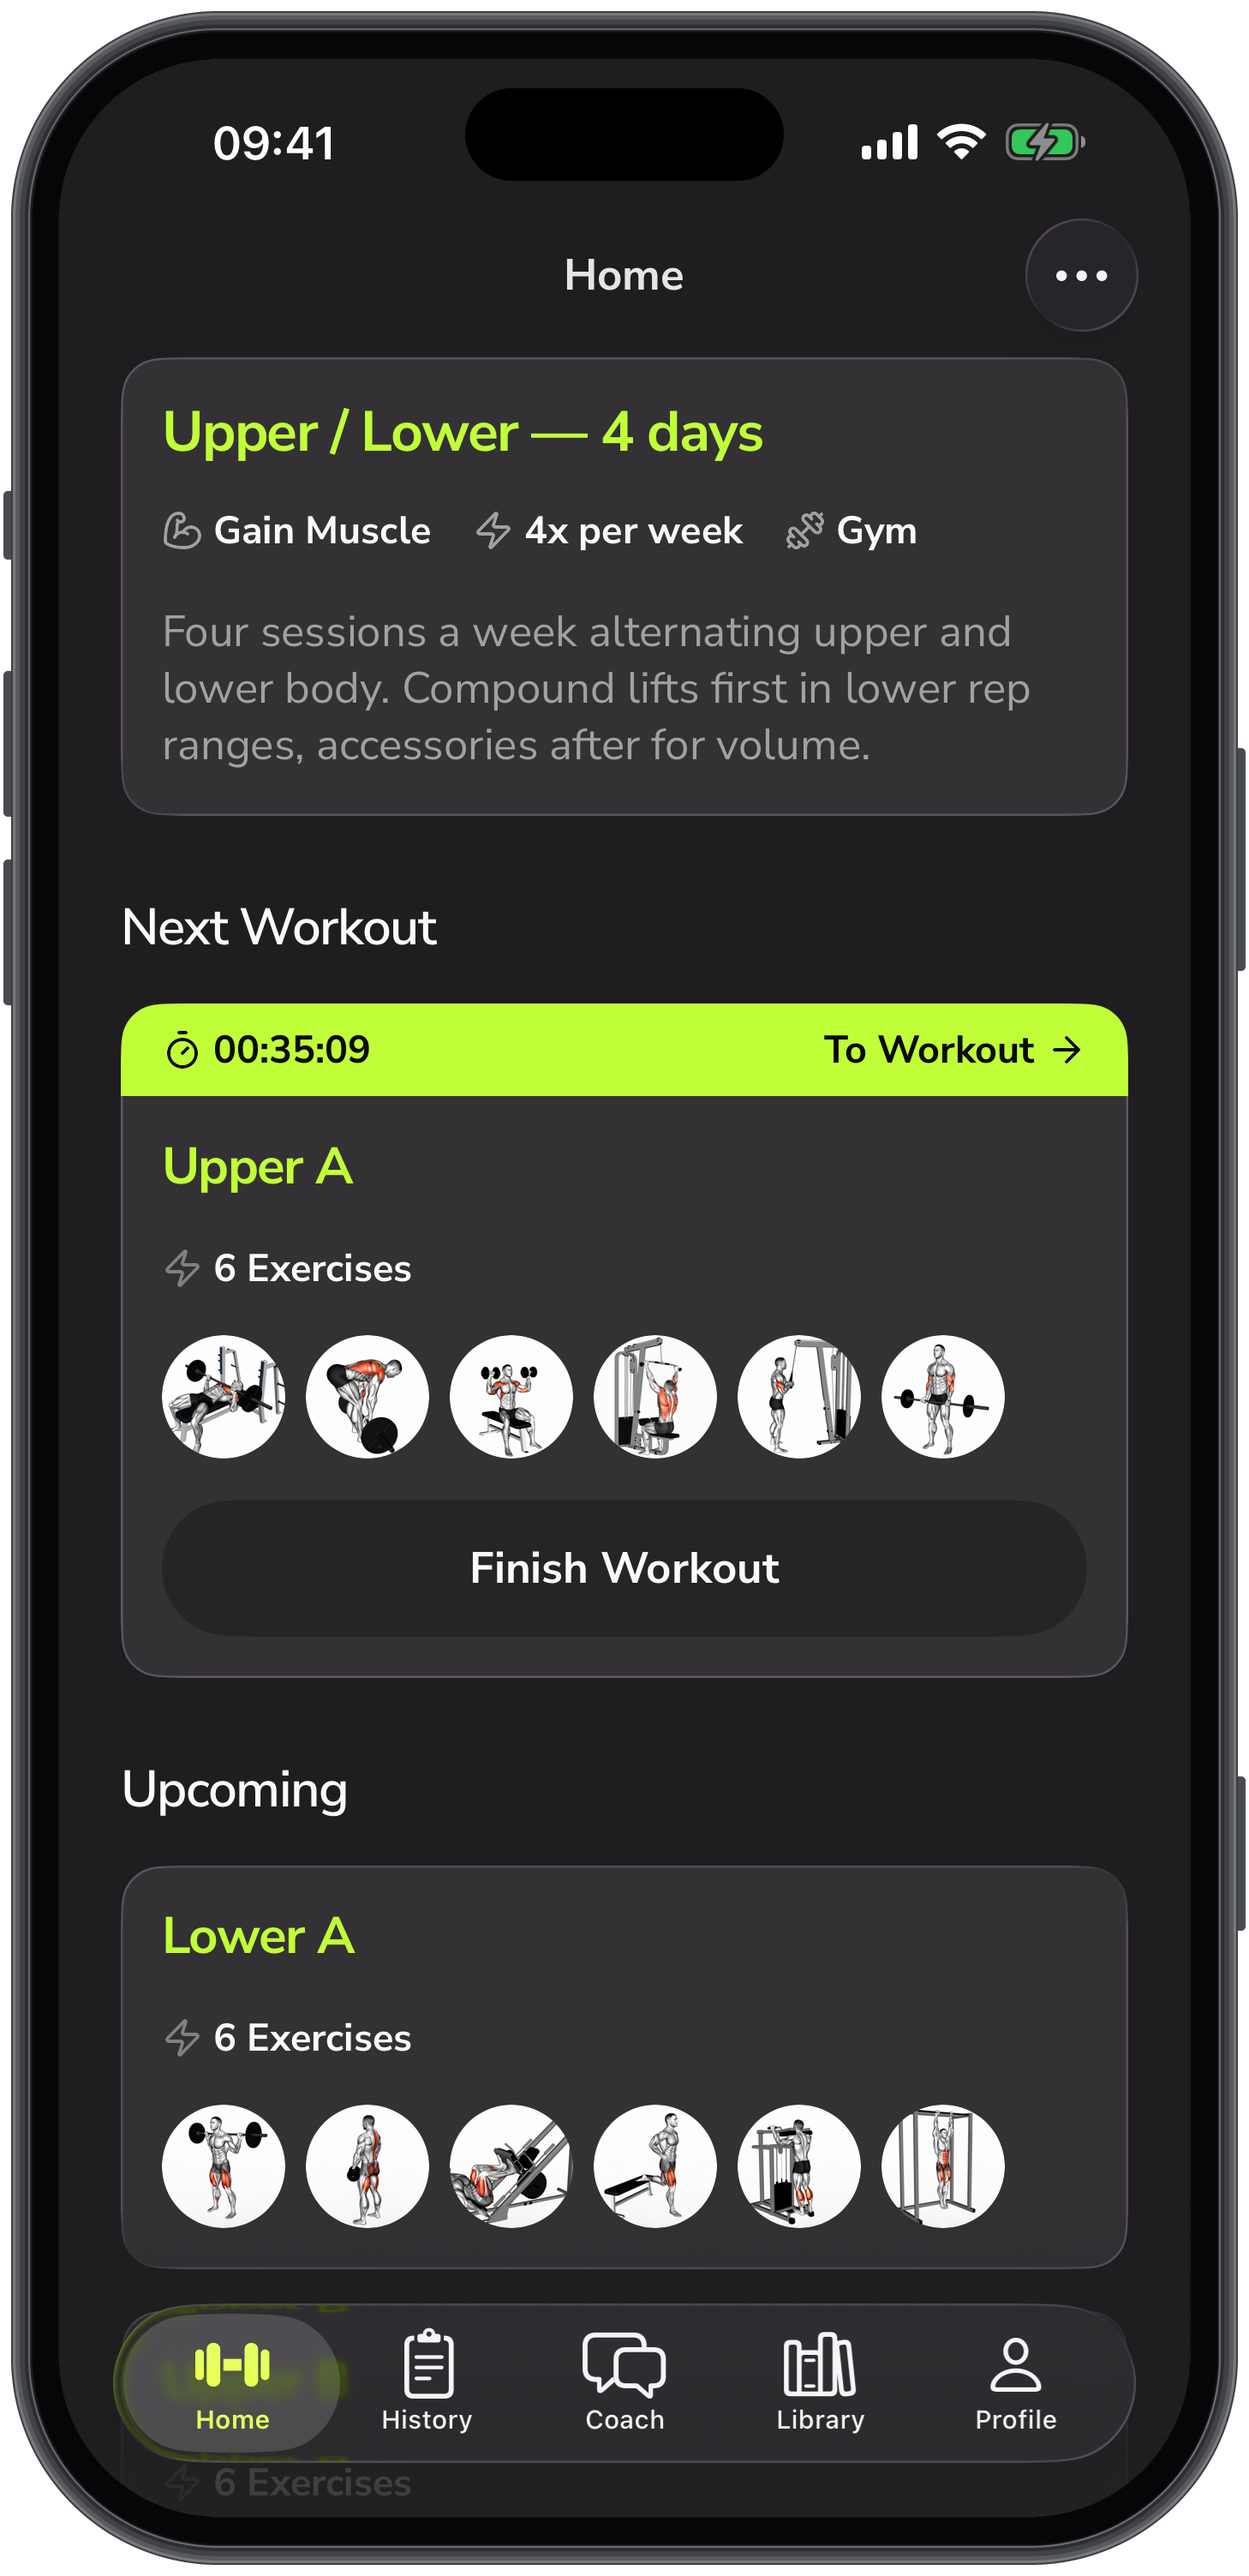
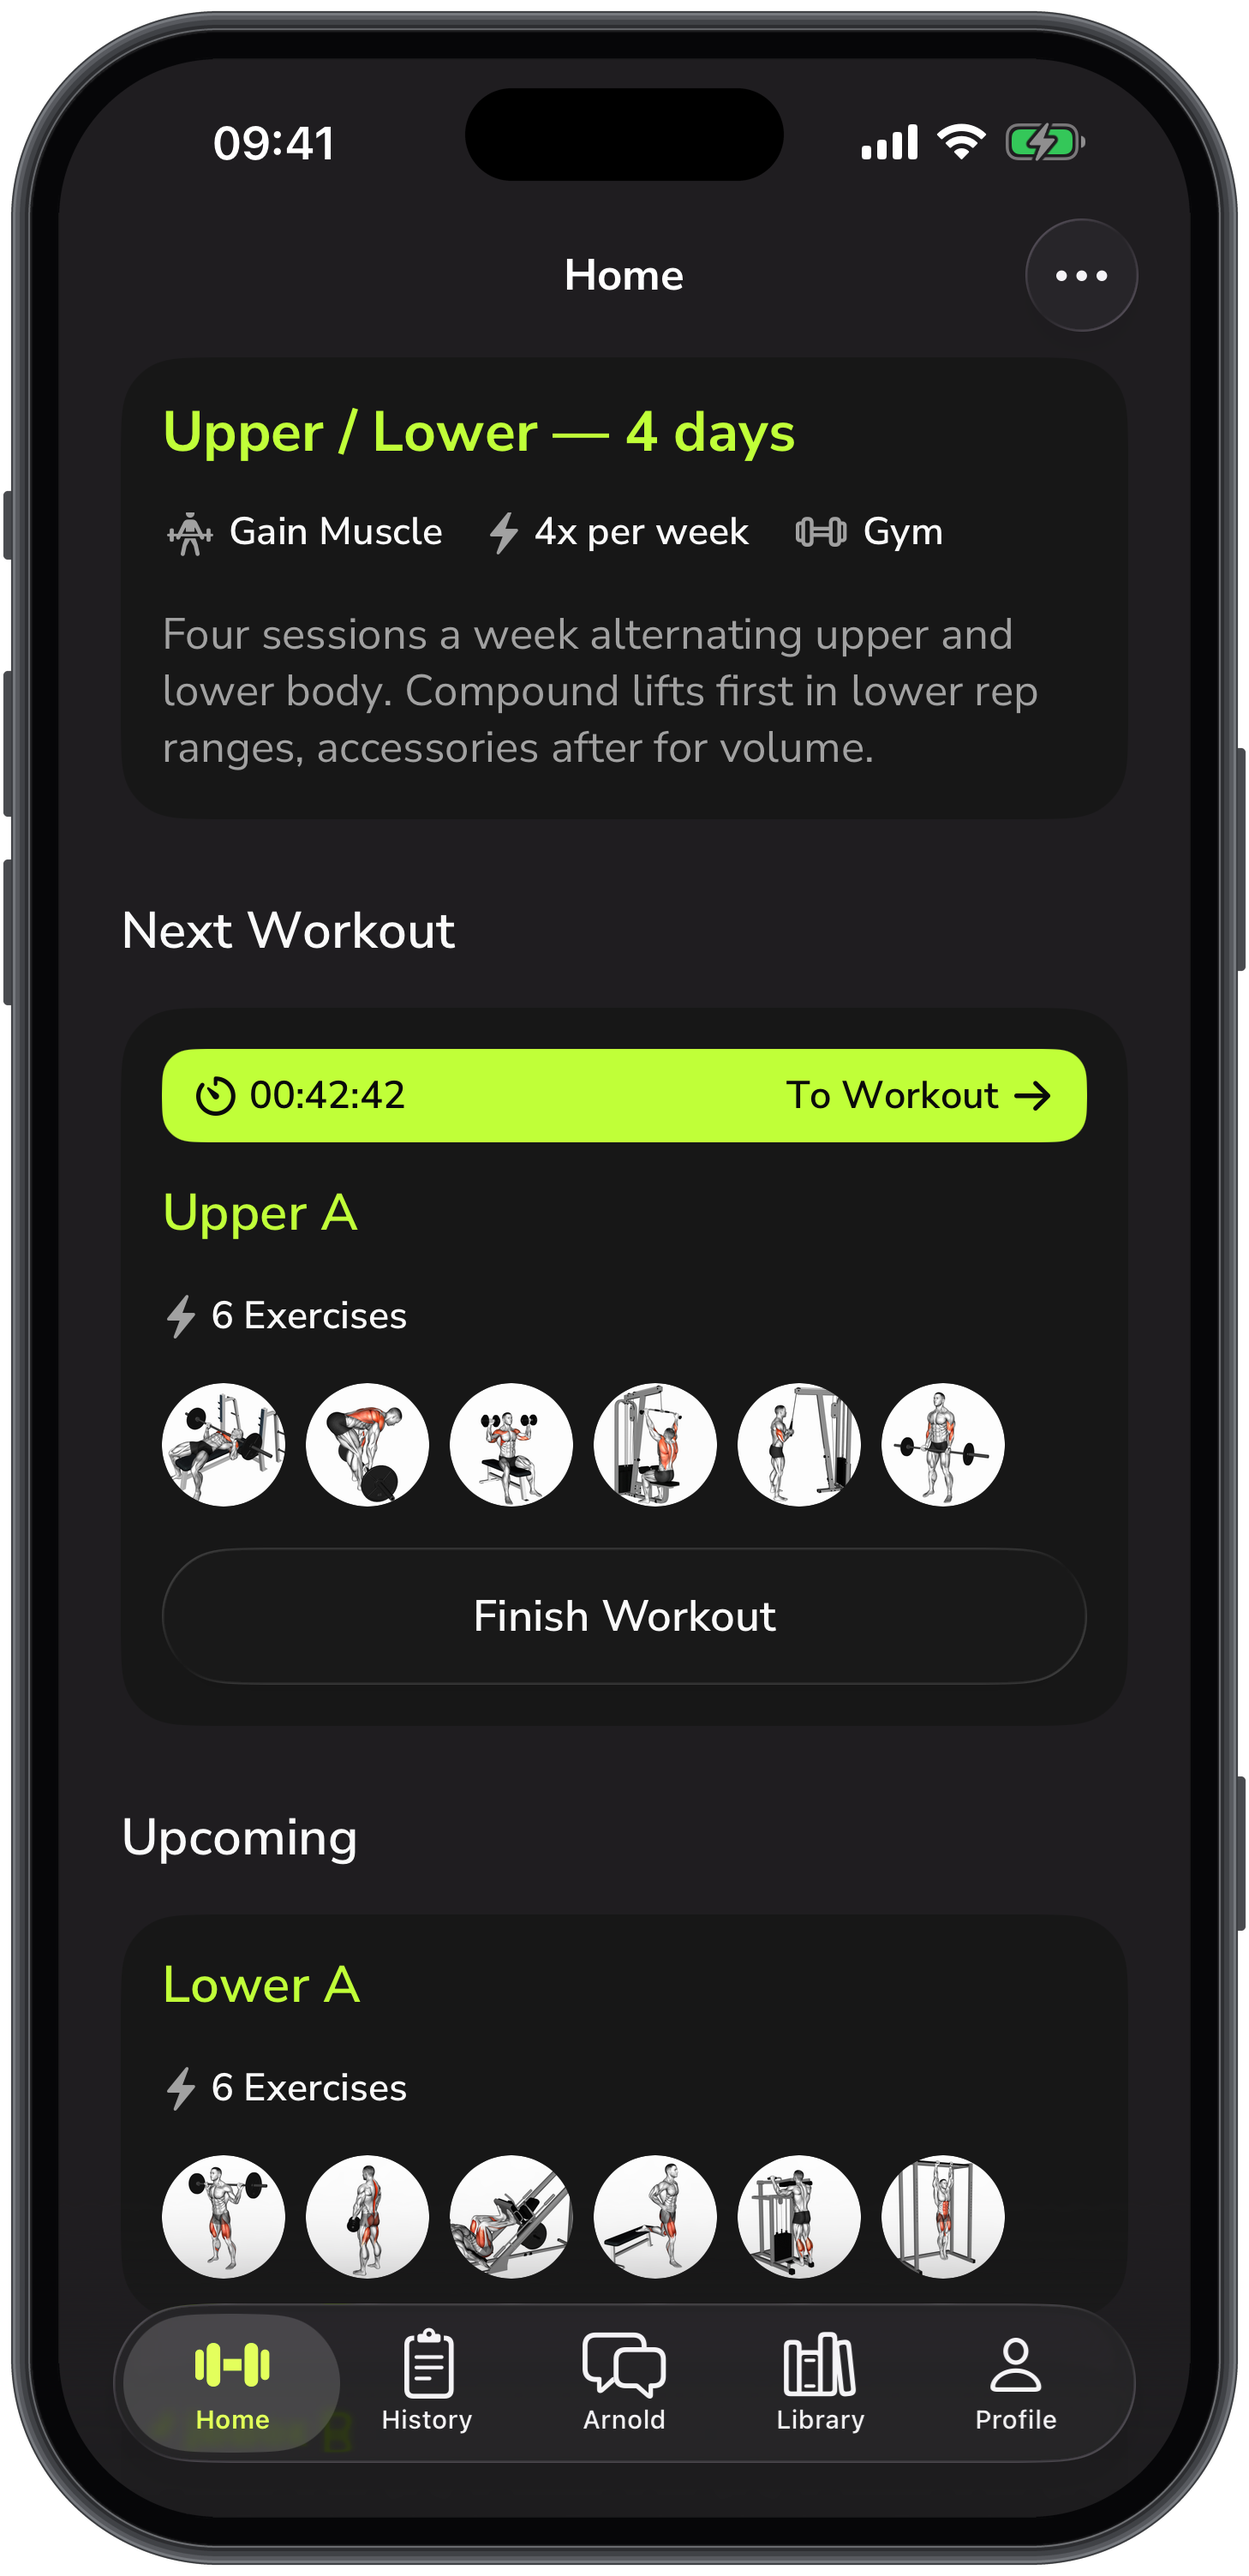
docs: recapture the screenshots that still showed the Coach tab (FIT-307)
Home, History, both Library shots and Profile were taken before the
Arnold tab, so their tab bars said Coach, and the site's hero, History
and Library shots with them. Recaptured from a Release build against a
seeded local stack and a real fitme-exercises bundle, then reframed and
scaled to the site's 776x1600 copies. The README names the new capture
and documents the site copy step and the gotchas met on the way.

diff --git a/marketing/screenshots/README.md b/marketing/screenshots/README.md
@@ -1,6 +1,6 @@
 # Fitme iOS marketing screenshots
 
-Real app (Release build, no dev overlays) against a local Supabase stack seeded with a believable account. Captured 2026-10-16 from commit `44e3fb5` (`13-arnold.png` and `14-arnold-models.png` recaptured 2026-10-25 on the Arnold tab, from a dev client with its tools hidden), iPhone 17 Pro Max simulator (iOS 26.5, 6.9", 1320×2868), dark mode, status bar overridden to 9:41 / full Wi-Fi and signal / charged battery.
+Real app (Release build, no dev overlays) against a local Supabase stack seeded with a believable account. Captured 2026-10-16 from commit `44e3fb5`, except the shots with a tab bar, which still said Coach: `13-arnold.png` and `14-arnold-models.png` were recaptured 2026-10-25 on the Arnold tab (from a dev client with its tools hidden), and `01-home.png`, `07-history.png`, `08-library-muscle-groups.png`, `09-library-chest.png` and `15-profile.png` 2026-10-25 from commit `77e6808` (Release build, `fitme-exercises` at `1ec0972`). iPhone 17 Pro Max simulator (iOS 26.5, 6.9", 1320×2868), dark mode, status bar overridden to 9:41 / full Wi-Fi and signal / charged battery.
 
 | File | Shows |
 | --- | --- |
@@ -31,9 +31,15 @@ Not captured: the planner's result and an Arnold Conversation with the plan card
 for f in marketing/screenshots/iphone/*.png; do python3 marketing/screenshots/frame.py "$f" "marketing/screenshots/framed/$(basename "$f")"; done
 ```
 
+The site's `apps/site/public/screens/*.png` are the framed shots scaled to 776×1600 with Lanczos (`home` ← `01-home`, `history` ← `07-history`, `library-chest` ← `09-library-chest`, `arnold-models` ← `14-arnold-models`, and so on by name):
+
+```sh
+python3 -c "from PIL import Image; Image.open('marketing/screenshots/framed/01-home.png').resize((776, 1600), Image.LANCZOS).save('apps/site/public/screens/home.png', optimize=True)"
+```
+
 ## How to reproduce
 
-1. Local stack for this worktree: `pnpm --filter @fitme/supabase exec supabase start` (prints the API/DB ports), then serve the Exercise Library the app reads names and thumbnails from: `LIBRARY_BUNDLE=<path to a real fitme-exercises library.json> pnpm dev:exercises` (the committed fixture only has made-up Exercises, so the seeded slugs would show their slug names).
+1. Local stack for this worktree: `pnpm --filter @fitme/supabase exec supabase start` (prints the API/DB ports), then serve the Exercise Library the app reads names and thumbnails from: `LIBRARY_BUNDLE=<path to a real fitme-exercises library.json> pnpm dev:exercises` (the committed fixture only has made-up Exercises, so the seeded slugs would show their slug names). Build that bundle with `pnpm bundle <out>` in a pointer-only clone (`GIT_LFS_SKIP_SMUDGE=1 git clone`): a checkout with the LFS media pulled fails it. Run the API with `pnpm --filter @fitme/exercises dev`, not `pnpm dev:exercises`: turbo drops `LIBRARY_BUNDLE` from the environment and the fixture gets served. Set `SUPABASE_URL` to the production project's origin too, or the thumbnails point at a placeholder project.
 2. `apps/mobile/.env`: `EXPO_PUBLIC_SUPABASE_URL` / `_ANON_KEY` from that stack, `EXPO_PUBLIC_CLERK_PUBLISHABLE_KEY` (Clerk dev instance), `EXPO_PUBLIC_E2E_ENABLED=true` (skips RevenueCat/Segment), `EXPO_PUBLIC_API_URL=http://127.0.0.1:3003` (run `pnpm dev:api` for the Arnold model list), empty `EXPO_PUBLIC_SENTRY_DSN`.
 3. Release build for the simulator (ad-hoc signed, or the keychain, and with it Clerk, never loads):
    ```sh
@@ -48,8 +54,8 @@ for f in marketing/screenshots/iphone/*.png; do python3 marketing/screenshots/fr
    ```sh
    psql "postgresql://postgres:postgres@127.0.0.1:<db port>/postgres" -v user_id=<user_…> -f marketing/screenshots/seed/seed.sql
    ```
-   `seed/seed.sql` writes a Profile (male, 29, 182 cm, 81.5 kg), the active 4-day Upper/Lower Plan with real Exercise Library slugs, 11 finished sessions over the last 18 days (Mon/Tue/Thu/Fri, weights progressing), and one Upper A session started 35 minutes ago with 7 sets logged.
-6. Clean status bar, then shoot each screen: `xcrun simctl status_bar booted override --time 9:41 --dataNetwork wifi --wifiBars 3 --cellularBars 4 --batteryState charged --batteryLevel 100` and `xcrun simctl io booted screenshot --type=png <file>`. Navigation was driven with Maestro point taps (Release builds merge accessibility elements, so ids aren't reachable).
+   `seed/seed.sql` writes a Profile (male, 29, 182 cm, 81.5 kg), the active 4-day Upper/Lower Plan with real Exercise Library slugs, 11 finished sessions over the last 18 days (weights progressing; Mon/Tue/Thu/Fri when shot on a Friday, as the days are counted back from today), and one Upper A session started 35 minutes ago with 7 sets logged.
+6. Clean status bar, then shoot each screen: `xcrun simctl status_bar booted override --time 9:41 --dataNetwork wifi --wifiBars 3 --cellularBars 4 --batteryState charged --batteryLevel 100` and `xcrun simctl io booted screenshot --type=png <file>`. Navigation was driven with Maestro point taps (Release builds merge accessibility elements, so ids aren't reachable). The 2026-10-25 shots used AXe instead (`axe tap --label History --udid <UDID>`; the muscle-group menu needs `--tap-style physical`), which only touches the given simulator, on a fresh `simctl create` iPhone 17 Pro Max; the password was set through the app's Forgot password flow with the test code.
 
 ## Found along the way
 
